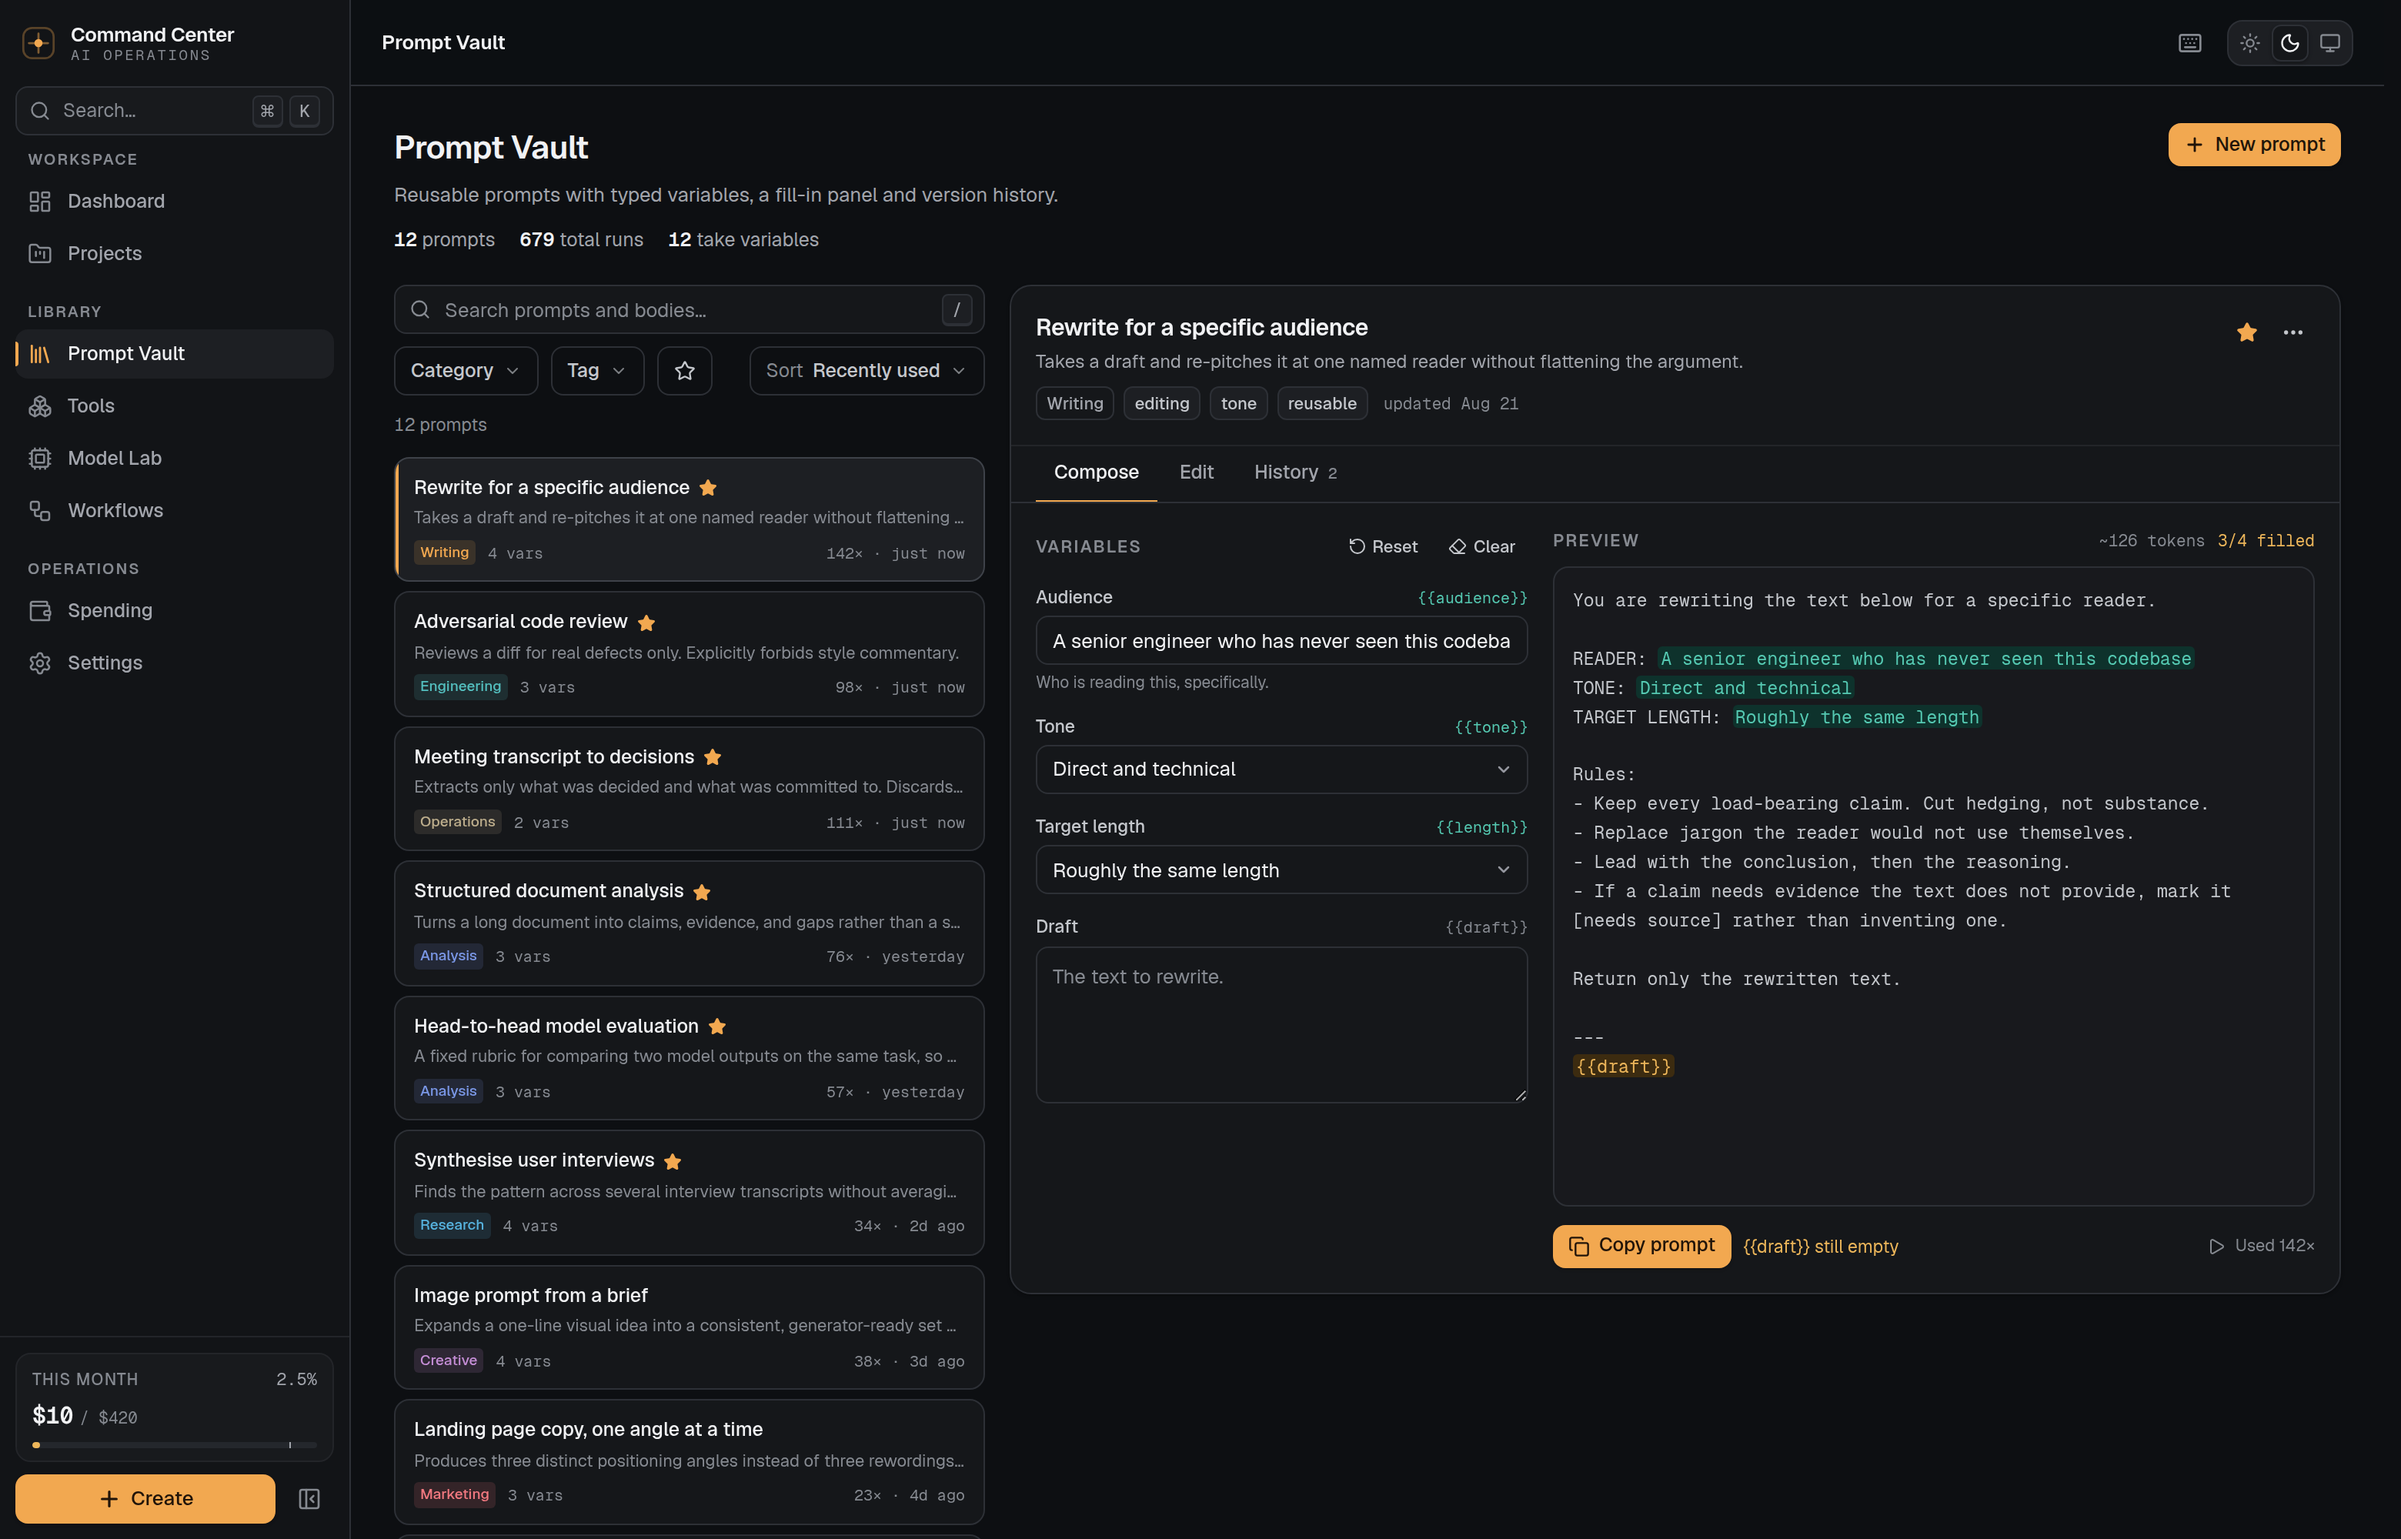
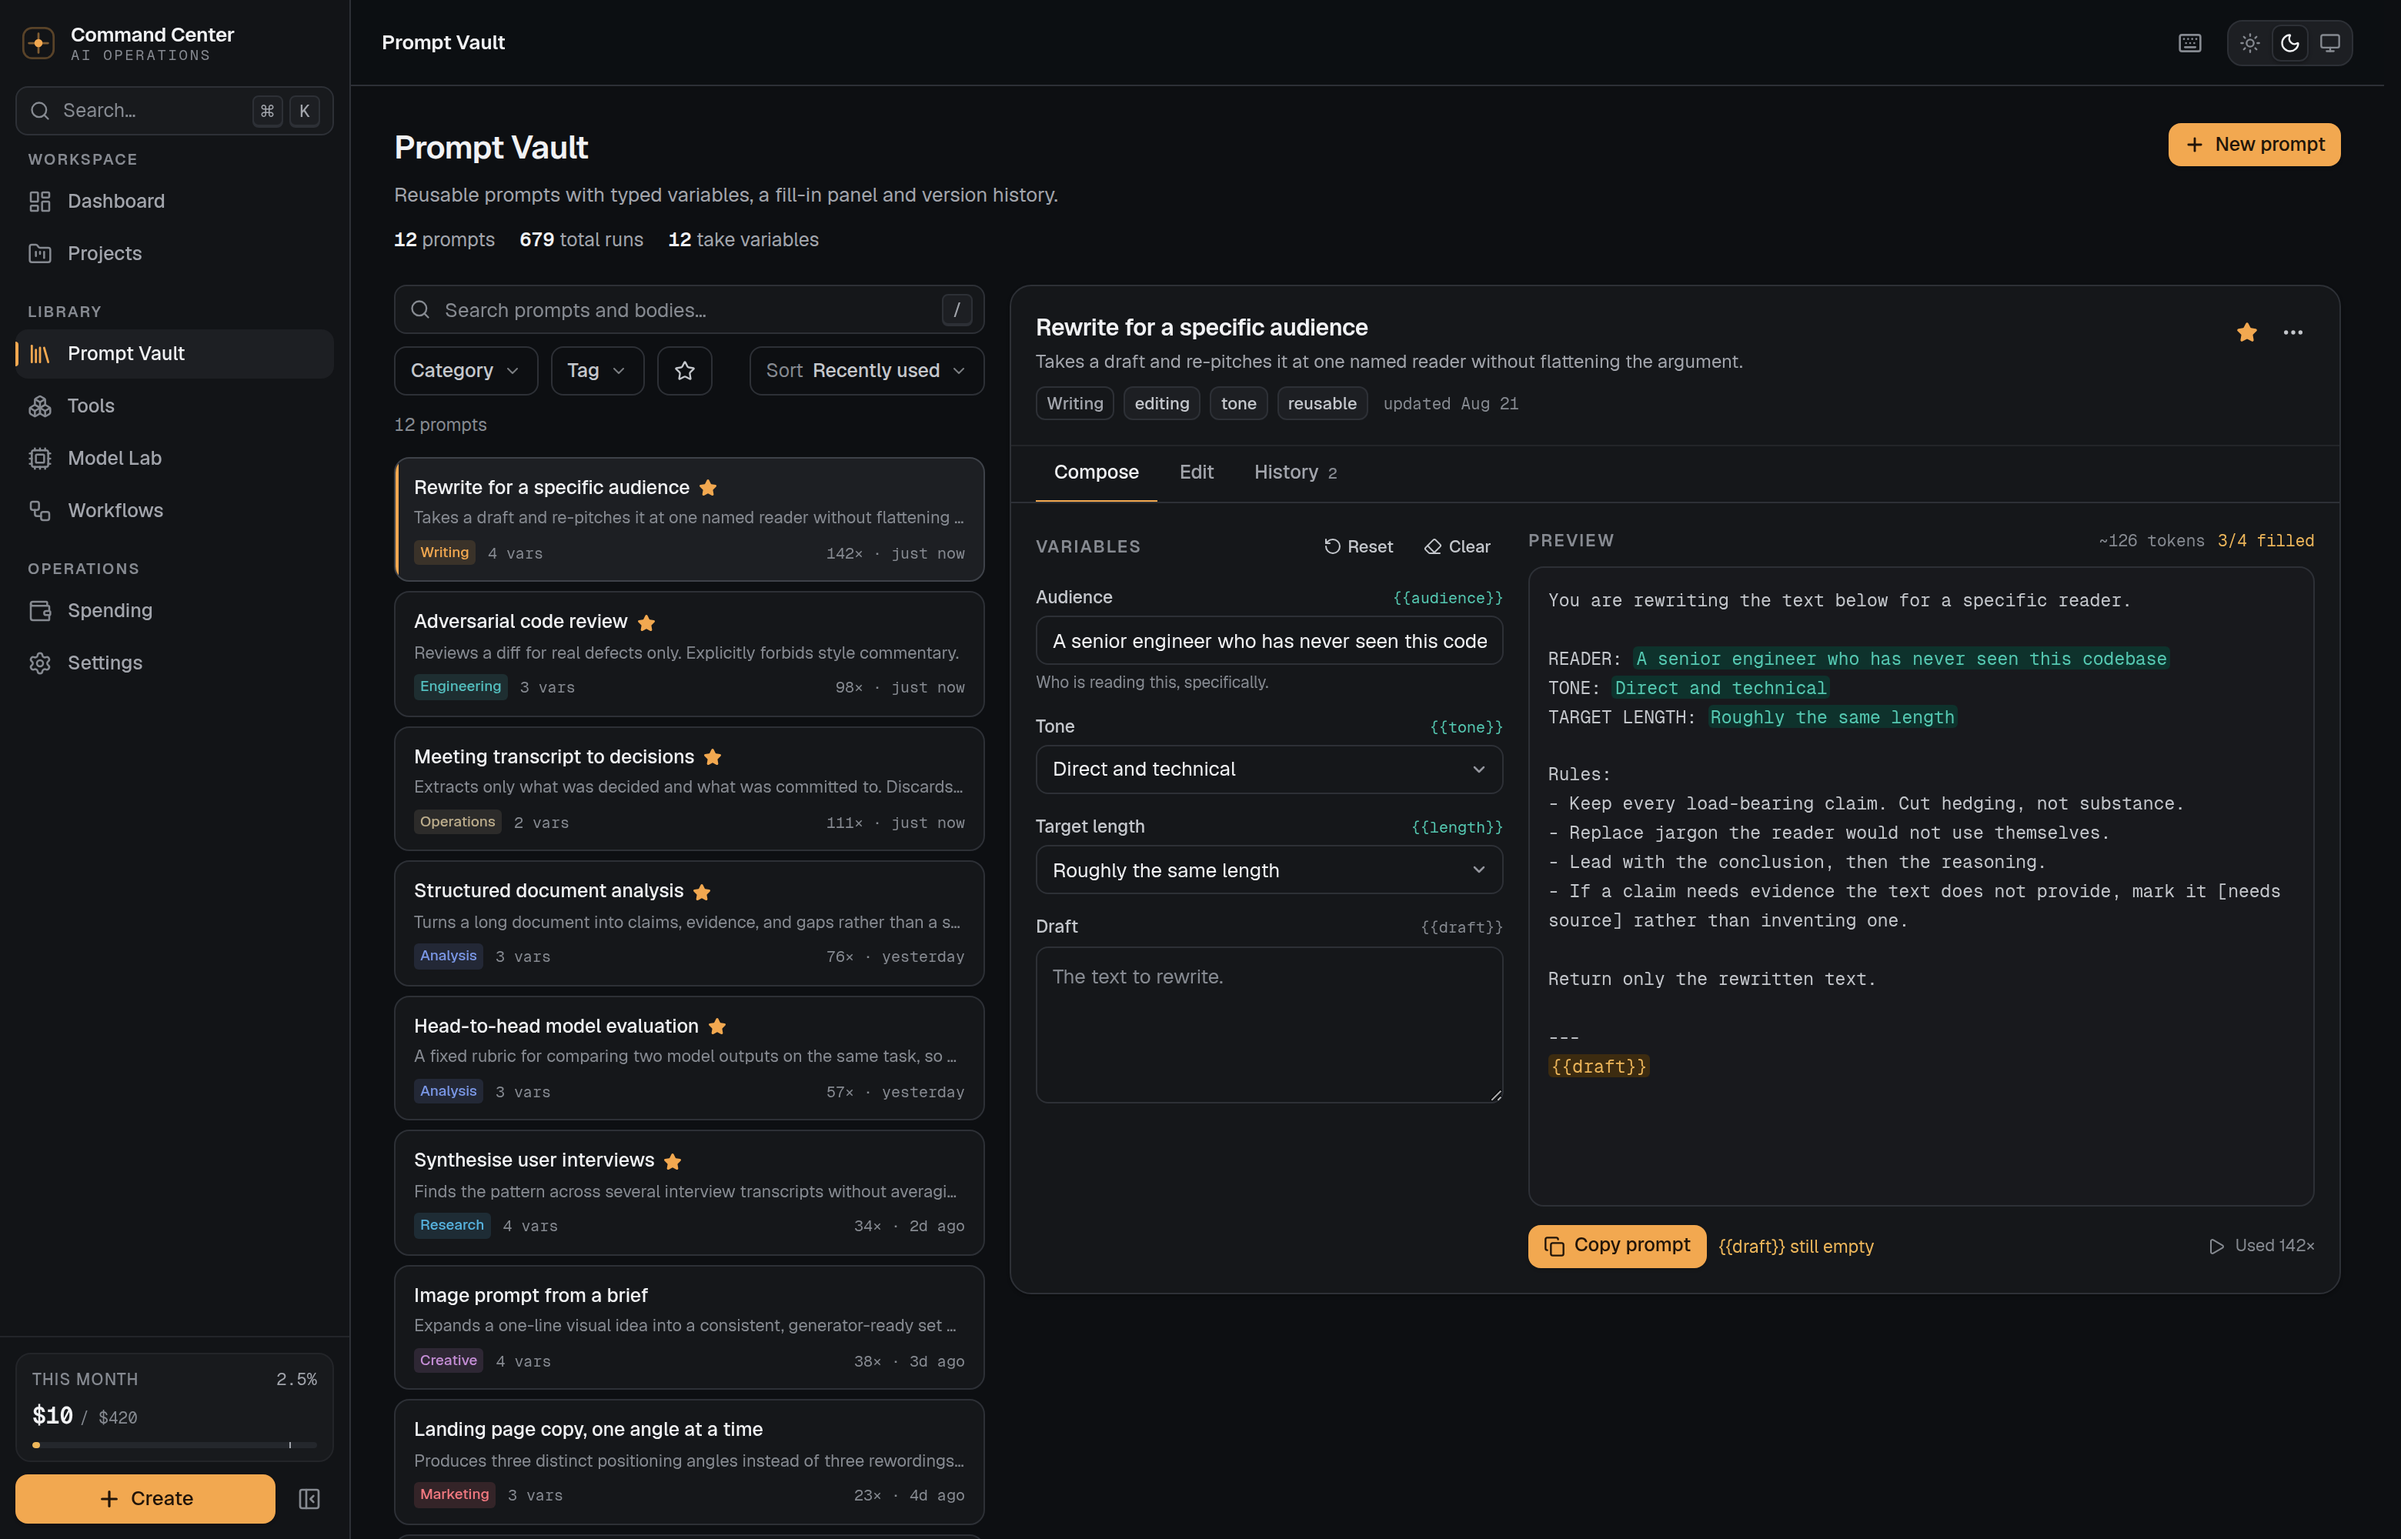
fix(responsive): remove the last horizontal overflow, add a sweep script
scripts/responsive.mjs (npm run responsive) walks every route at eight
widths and fails on any horizontal overflow — a class of bug that is
invisible on a desktop and obvious on a phone. It found two more:

- The prompt composer and history split into two columns at lg, the same
  breakpoint at which the page itself splits into list and detail. Inside
  an already-halved pane there was not room for both, so at exactly 1024px
  the detail pane pushed past the viewport. They now split at xl.
- The composer's action row could not wrap, so a long list of unfilled
  variable names pushed the usage counter off-screen.

Project cards no longer overlap their provider marks: overlap is a pattern
for circular photos, and it made two-letter monograms unreadable.

Now clean across 8 widths × 9 routes, alongside zero axe violations in both
themes and 250 passing tests.

Claude-Session: https://claude.ai/code/session_01FEJ1vQtQdGTMtarzVfgRL3

Changed region(s): [[0.5596, 0.341, 0.9327, 0.651], [0.6218, 0.775, 0.7772, 0.837], [0.6218, 0.682, 0.7151, 0.713]]

diff --git a/src/features/prompts/prompt-composer.tsx b/src/features/prompts/prompt-composer.tsx
@@ -51,8 +51,8 @@ export function PromptComposer({ prompt }: { prompt: Prompt }) {
   };
 
   return (
-    <div className="grid gap-4 lg:grid-cols-[minmax(0,20rem)_minmax(0,1fr)]">
-      <div className="space-y-3">
+    <div className="grid min-w-0 gap-4 xl:grid-cols-[minmax(0,19rem)_minmax(0,1fr)]">
+      <div className="min-w-0 space-y-3">
         <div className="flex items-center justify-between gap-2">
           <h3 className="text-[11px] font-semibold uppercase tracking-[0.09em] text-ink-4">
             Variables
@@ -163,7 +163,7 @@ export function PromptComposer({ prompt }: { prompt: Prompt }) {
         )}
       </div>
 
-      <div className="flex min-h-0 flex-col">
+      <div className="flex min-h-0 min-w-0 flex-col">
         <div className="mb-2 flex items-center justify-between gap-2">
           <h3 className="text-[11px] font-semibold uppercase tracking-[0.09em] text-ink-4">
             Preview
@@ -185,7 +185,7 @@ export function PromptComposer({ prompt }: { prompt: Prompt }) {
           </div>
         </div>
 
-        <div className="relative min-h-64 flex-1 overflow-auto rounded-lg border border-line bg-surface-2/40 p-3 lg:min-h-[26rem]">
+        <div className="relative min-h-64 flex-1 overflow-auto rounded-lg border border-line bg-surface-2/40 p-3 xl:min-h-[26rem]">
           <pre className="whitespace-pre-wrap break-words font-mono text-[11.5px] leading-[1.65] text-ink-2">
             {segments.map((segment, index) =>
               segment.kind === "text" ? (
@@ -211,17 +211,17 @@ export function PromptComposer({ prompt }: { prompt: Prompt }) {
           </pre>
         </div>
 
-        <div className="mt-3 flex items-center gap-2">
+        <div className="mt-3 flex flex-wrap items-center gap-x-2 gap-y-1.5">
           <Button variant="primary" size="sm" onClick={onCopy}>
             {copied ? <Check className="size-3.5" strokeWidth={3} /> : <Copy className="size-3.5" />}
             {copied ? "Copied" : "Copy prompt"}
           </Button>
           {result.missing.length > 0 && (
-            <span className="text-[11.5px] text-warning">
+            <span className="min-w-0 flex-1 truncate text-[11.5px] text-warning">
               {result.missing.map((name) => `{{${name}}}`).join(", ")} still empty
             </span>
           )}
-          <span className="ml-auto flex items-center gap-1.5 text-[11px] text-ink-4">
+          <span className="ml-auto flex shrink-0 items-center gap-1.5 text-[11px] text-ink-4">
             <Play className="size-3" />
             Used {formatNumber(prompt.useCount)}×
           </span>

diff --git a/src/features/projects/project-card.tsx b/src/features/projects/project-card.tsx
@@ -100,17 +100,14 @@ export function ProjectCard({
               )}
             </p>
           </div>
-          <div className="flex -space-x-1.5">
+          {/* Not overlapped: two-letter monograms are unreadable when a
+              neighbour covers half of them. Overlap is for circular photos. */}
+          <div className="flex gap-1">
             {providers.slice(0, 4).map((provider) => (
-              <ProviderMark
-                key={provider}
-                provider={provider}
-                size="xs"
-                className="ring-2 ring-[var(--surface-1)]"
-              />
+              <ProviderMark key={provider} provider={provider} size="xs" />
             ))}
             {providers.length > 4 && (
-              <span className="grid size-5 place-items-center rounded-[5px] border border-line bg-surface-2 font-mono text-[8.5px] text-ink-4 ring-2 ring-[var(--surface-1)]">
+              <span className="grid size-5 place-items-center rounded-[5px] border border-line bg-surface-2 font-mono text-[8.5px] text-ink-4">
                 +{providers.length - 4}
               </span>
             )}

diff --git a/src/app/prompts/page.tsx b/src/app/prompts/page.tsx
@@ -216,7 +216,7 @@ function PromptsPageInner() {
         }
       />
 
-      <div className="mt-5 grid gap-4 lg:grid-cols-[minmax(0,22rem)_minmax(0,1fr)] xl:grid-cols-[minmax(0,24rem)_minmax(0,1fr)]">
+      <div className="mt-5 grid min-w-0 gap-4 lg:grid-cols-[minmax(0,20rem)_minmax(0,1fr)] xl:grid-cols-[minmax(0,24rem)_minmax(0,1fr)]">
         {/* List */}
         <div className={cn("min-w-0", selected && "hidden lg:block")}>
           <div className="flex items-center gap-2 overflow-x-auto pb-1 no-scrollbar sm:flex-wrap sm:overflow-visible sm:pb-0">

diff --git a/src/app/models/page.tsx b/src/app/models/page.tsx
@@ -192,7 +192,7 @@ function ModelsPageInner() {
         }
       />
 
-      <div className="mt-5 grid gap-4 lg:grid-cols-[minmax(0,1fr)_minmax(360px,420px)] xl:grid-cols-[minmax(0,1fr)_460px]">
+      <div className="mt-5 grid min-w-0 gap-4 lg:grid-cols-[minmax(0,1fr)_minmax(340px,420px)] xl:grid-cols-[minmax(0,1fr)_460px]">
         <div className="min-w-0">
           <div className="flex items-center gap-2 overflow-x-auto pb-1 no-scrollbar sm:flex-wrap sm:overflow-visible sm:pb-0">
             <SearchField

diff --git a/src/features/prompts/prompt-history.tsx b/src/features/prompts/prompt-history.tsx
@@ -55,7 +55,7 @@ export function PromptHistory({ prompt }: { prompt: Prompt }) {
   }
 
   return (
-    <div className="grid gap-4 lg:grid-cols-[minmax(0,15rem)_minmax(0,1fr)]">
+    <div className="grid min-w-0 gap-4 xl:grid-cols-[minmax(0,14rem)_minmax(0,1fr)]">
       <ol className="space-y-1">
         {entries.map((entry) => {
           const entryStat = entry.current

diff --git a/README.md b/README.md
@@ -203,6 +203,7 @@ Settings can export it as JSON, import it back, or reset to the sample data.
 | `npm run lint` | ESLint |
 | `npm run check` | typecheck → tests → build |
 | `npm run a11y` | axe scan over every route, both themes (needs `npm run dev`) |
+| `npm run responsive` | Horizontal-overflow sweep, 8 widths × 9 routes (needs `npm run dev`) |
 | `npm run deadcode` | knip scan for unused files, exports and dependencies |
 | `npm run screenshots` | Regenerate the captures in `screenshots/` |
 
